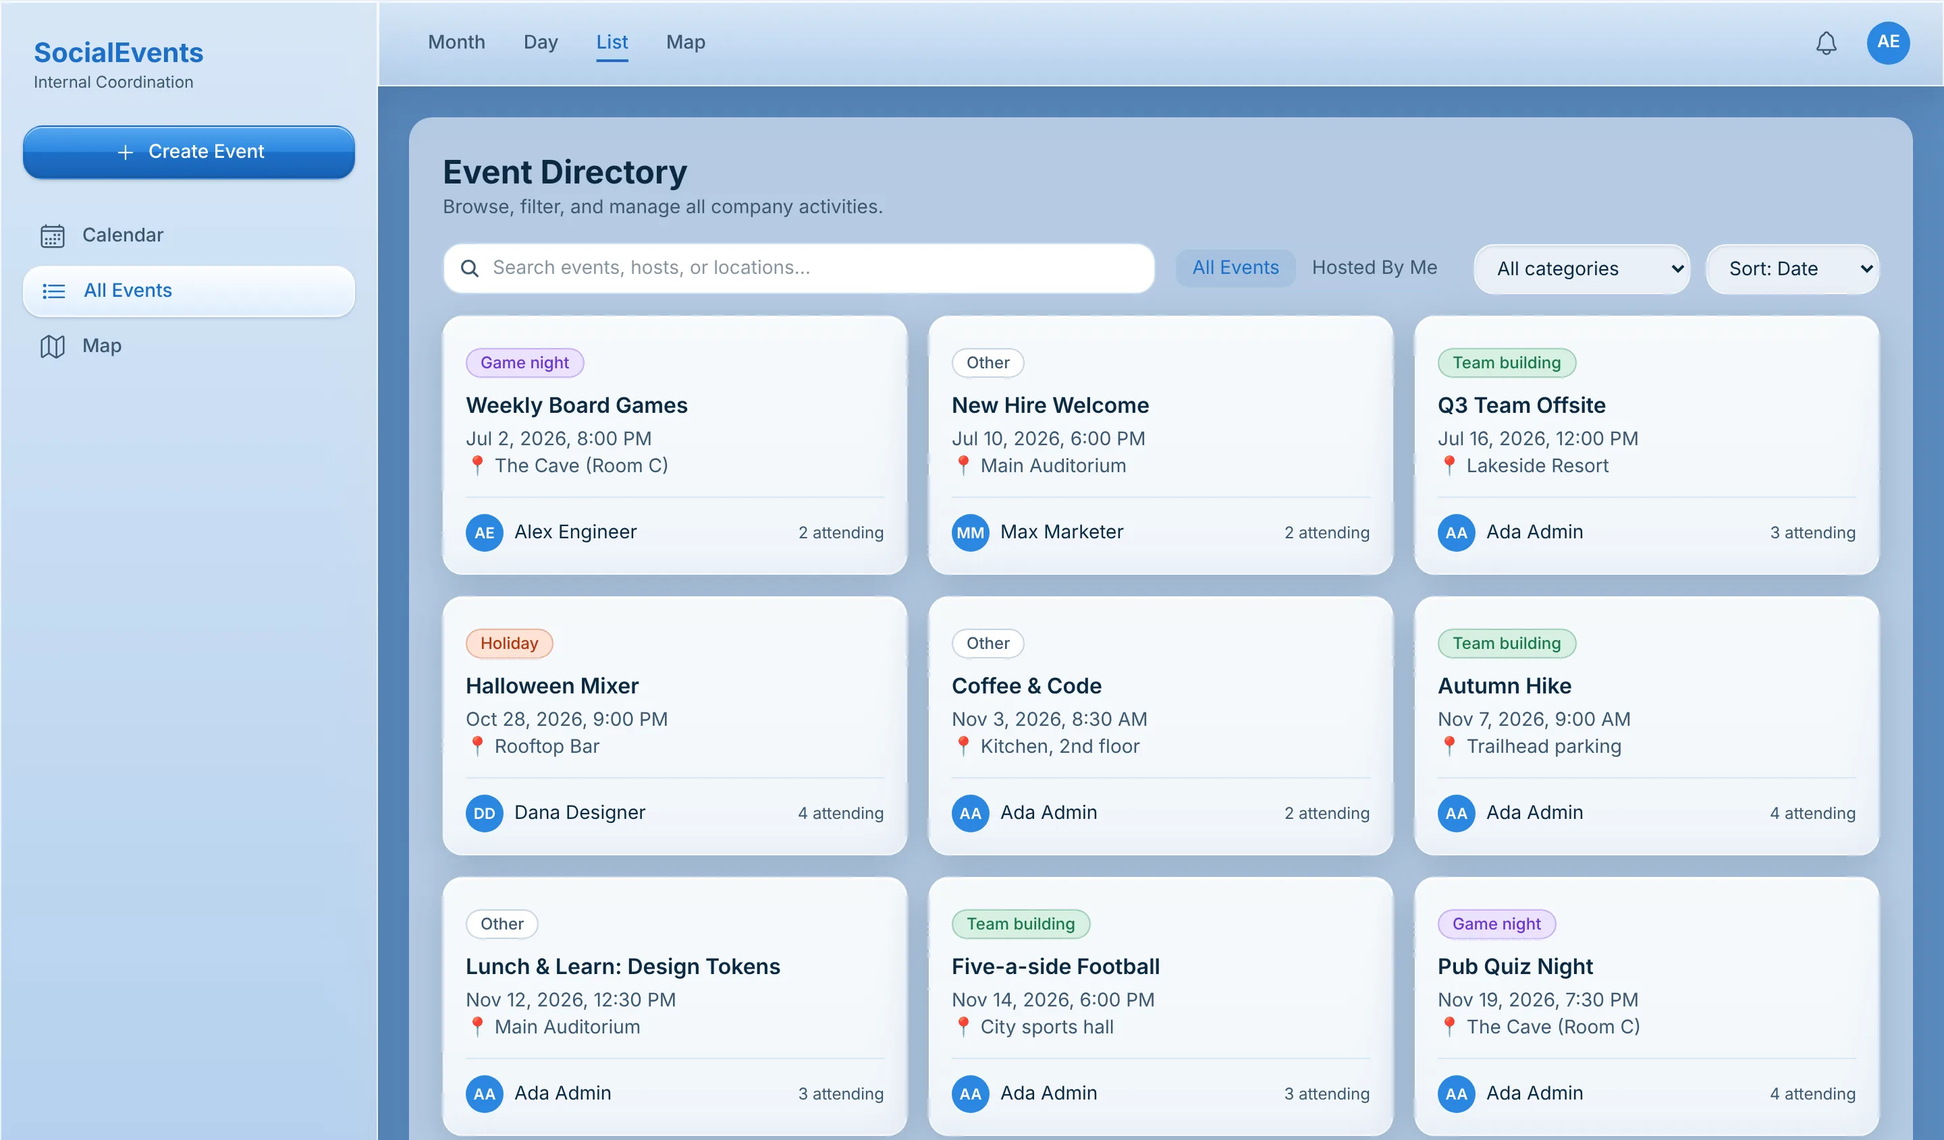
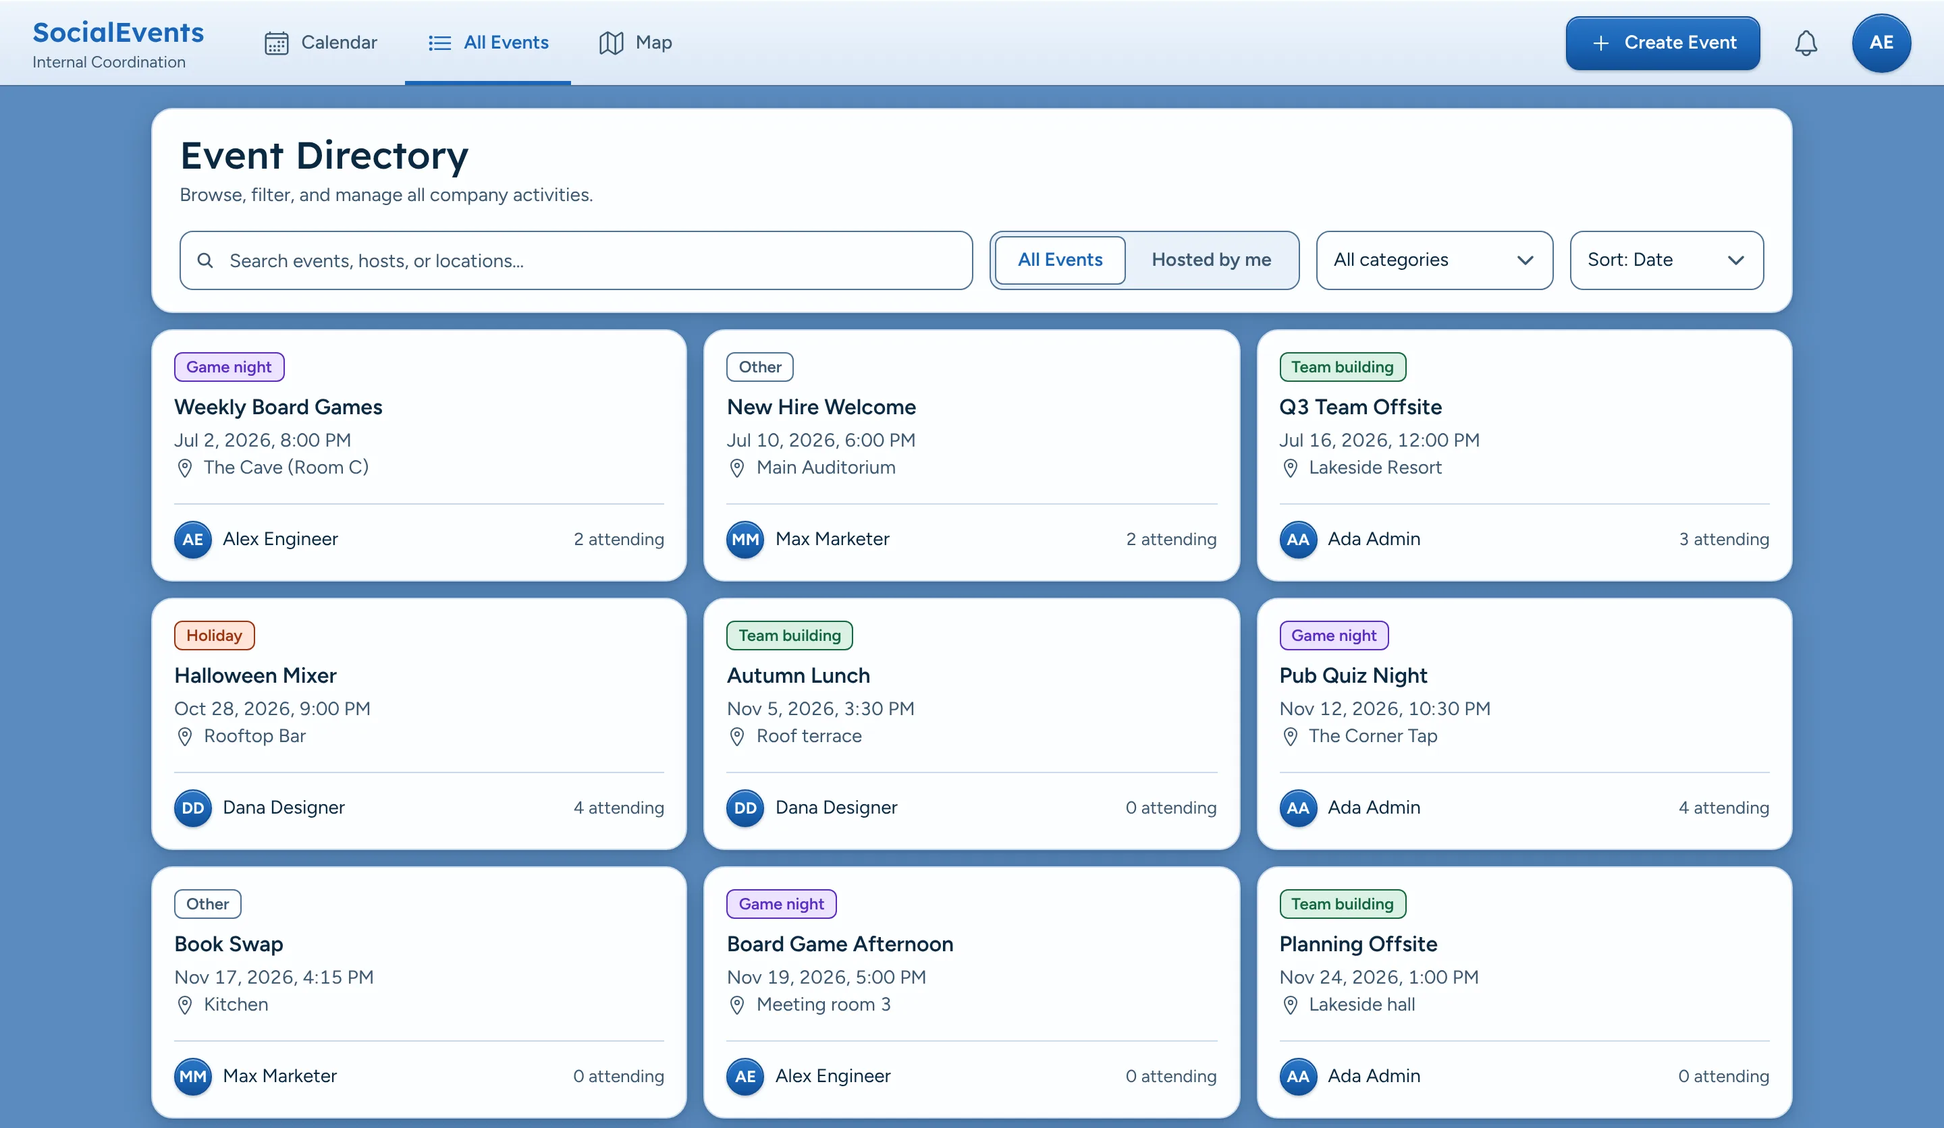
Docs: the README, getting started and the screenshots after the redesign
The README images showed the look of 2026-11-01; the redesign landed on
2026-11-13. All of them are retaken from the running app on the seed and
the Playwright hub's fixture month, clock frozen at 12 November 2026.

- README: status (19 briefs, the redesign, the two themes), a line on the
  theme and the phone layout, why this over a shared calendar, Base UI in
  the client, `npm run check` in place of the separate checks, the
  playwright/ and scripts/ rows, the design-system link.
- Images: calendar, events and event-detail retaken (event-detail now
  shows Halloween Mixer, whose place has coordinates, so the mock weather
  and the View map link show); phone-events.webp replaced by
  phone-calendar.webp; phone-event-sheet-dark.webp added for the dark
  theme and the phone sheet.
- docs/getting-started.md: checked again on 2026-11-16; the stale "lint
  has no config" line removed; check, check:fast, format and the
  conventions; the browser specs and their test server; moving the dev
  ports (Vite needs `-- --`, and its proxy stays on 3001); the weather
  timeout; the seed skips a database that already has users.
- docs/images/shots.md: one row per image, the fixture, the clock, the
  time zone and the server settings; the hub's shot run for the next time.
- docs/README.md: the Playwright hub linked.

Claude-Session: https://claude.ai/code/session_01RnCo6KceG18CeLXhzKq2En

diff --git a/README.md b/README.md
@@ -3,35 +3,40 @@
 A planner for a company's social events. Anyone signed in can create an event, invite people or whole departments, and see everything on a calendar, a list or a map, with the weather at each place.
 
 <p align="center">
-  <img src="docs/images/calendar.webp" width="100%" alt="The month calendar for November 2026 in a light blue, frosted Windows 7 style: today, the 1st, circled, and coloured chips for made-up events such as Coffee & Code, Autumn Hike, Pub Quiz Night and Thanksgiving Potluck">
+  <img src="docs/images/calendar.webp" width="100%" alt="The calendar on a desktop: a glass top bar with Calendar, All Events and Map tabs and a Create Event button, tonight's Pub Quiz Night as a ticket with Join and Can't make it buttons, and below it the month of November 2026 with coloured chips for made-up events such as Autumn Lunch, Book Swap, Planning Offsite and Holiday Party">
 </p>
 
-**Status:** Personal project, version 1 built and checked on 2026-06-25, with all 14 briefs done. It runs locally and is not deployed. It is a ground-up rebuild of a 2023 Next.js, Express and MongoDB app, whose spec is kept in [corpus/sources/SPEC.md](corpus/sources/SPEC.md).
+**Status:** Personal project. Version 1 was built and checked on 2026-06-25. The redesign of 2026-11-13, "The open invitation", gave it the current look, with a light and a dark theme. All 19 briefs are done. It runs locally and is not deployed. It is a ground-up rebuild of a 2023 Next.js, Express and MongoDB app, whose spec is kept in [corpus/sources/SPEC.md](corpus/sources/SPEC.md).
 
 ## What it does
 
-- People belong to departments. An event has a name, a time, a category, a place on the map and a description, and its host invites single people or whole departments.
-- Invitees get an email and a notification in the app, and answer Join or Can't make it.
+- People belong to departments. An event has a name, a time, a category, a place and a description, and its host invites single people or whole departments.
+- Invitees get an email and a notification in the app, and answer Join or Can't make it. Tonight's event, or the next one, sits on top of the calendar as a ticket with both answers.
 - Events show on a month or day calendar, in a directory you can search and filter by category, and on a map.
-- Each event shows the current weather at its place, and people rate both the event and its host from one to five stars.
+- Each event shows the weather at its place, and people rate both the event and its host from one to five stars.
 - Admins create departments and move people between them.
+- Light, Dark or System theme, picked in the profile dialog. On a phone the places move to a bottom bar and an event opens as a sheet.
+
+A shared office calendar can hold the dates. This adds department-wide invites, the Join answers, the weather and the ratings, and keeps it all in one SQLite file. It is an internal tool. Every screen past the sign-in page needs an account, and it sells no tickets and publishes nothing to the outside.
+
+## Screenshots
 
 <table>
 <tr>
-<td width="62%" valign="top"><img src="docs/images/events.webp" alt="The event directory: a search box, All Events and Hosted By Me tabs, category and sort filters, and cards with each event's category, time, place, host and number attending"></td>
-<td width="38%" valign="top"><img src="docs/images/phone-events.webp" alt="The event directory on a phone, with the side menu folded into a button"></td>
+<td width="62%" valign="top"><img src="docs/images/events.webp" alt="The event directory: a search box, All Events and Hosted by me, category and sort filters, and cards with each event's category, date, place, host and number attending"></td>
+<td width="38%" valign="top"><img src="docs/images/phone-calendar.webp" alt="The calendar on a phone: the Pub Quiz Night ticket with Join and Can't make it, the month as a grid of days with a coloured bar under each day that has an event, the category key, and a bottom bar with Calendar, All Events, Map and Create Event"></td>
+</tr>
+<tr>
+<td width="62%" valign="top"><img src="docs/images/event-detail.webp" alt="One event, Halloween Mixer, in a dialog: its Holiday category, empty event stars, the date, the weather reading Cloudy (mock), the host Dana Designer, the place Rooftop Bar with a View map link, the details, four attendees, and Join and Can't make it buttons"></td>
+<td width="38%" valign="top"><img src="docs/images/phone-event-sheet-dark.webp" alt="The dark theme on a phone: Pub Quiz Night as a bottom sheet with its category, the host Ada Admin rated 4.0 from two ratings, the place, the details, four attendees, and Join and Can't make it at the bottom"></td>
 </tr>
 </table>
 
-<p align="center">
-  <img src="docs/images/event-detail.webp" width="70%" alt="One event, Pub Quiz Night: its category, time, mock weather, host with a four-star rating, place with a View map link, details, four attendees, and Join and Can't make it buttons">
-</p>
-
-It runs with no API keys. Weather, maps and email fall back to built-in stand-ins, so the weather above reads "(mock)" and the map shows the places as a list. Keys in `.env` turn on the real services.
+It runs with no API keys. Weather, maps and email fall back to built-in stand-ins, so the weather above reads "(mock)" and the map shows the places as a list. Keys in `server/.env` and `client/.env` turn on the real services.
 
 ## How it works
 
-Three npm workspaces. `shared` holds the Zod schemas and types that are the API contract. `server` is a Fastify API on one SQLite file, with hand-written queries and its own JWT sign-in in a cookie. `client` is a React page built with Vite, Tailwind and TanStack Query and Router.
+Three npm workspaces. `shared` holds the Zod schemas and types that are the API contract. `server` is a Fastify API on one SQLite file, grouped by feature, with hand-written queries and its own JWT sign-in in a cookie. `client` is a React page built with Vite, Tailwind, Base UI and TanStack Query and Router.
 
 ```mermaid
 flowchart LR
@@ -43,7 +48,7 @@ flowchart LR
   shared --- server
 ```
 
-More in the wiki: [architecture](corpus/wiki/architecture.md), [data model](corpus/wiki/data-model.md), [API](corpus/wiki/api-contract.md) and [sign-in](corpus/wiki/auth.md).
+More in the wiki: [architecture](corpus/wiki/architecture.md), [data model](corpus/wiki/data-model.md), [API](corpus/wiki/api-contract.md), [sign-in](corpus/wiki/auth.md) and [design system](corpus/wiki/design-system.md).
 
 ## Run it locally
 
@@ -58,17 +63,18 @@ npm run dev:server       # Fastify on :3001
 npm run dev:client       # second terminal: Vite on http://localhost:5173, forwarding /api to :3001
 ```
 
-The seed prints the accounts it made. `npm run typecheck`, `npm test` and `npm run build` check and build all three workspaces. Settings, the optional keys and a single-port production run: [docs/getting-started.md](docs/getting-started.md).
+The seed prints the accounts it made. `npm run check` runs the typecheck, lint, format check, convention checks and tests. Settings, the optional keys, the browser specs and a single-port production run: [docs/getting-started.md](docs/getting-started.md).
 
 ## Project layout
 
 | Path | What lives there |
 |---|---|
 | `shared/` | The API contract: Zod schemas and types |
-| `server/` | Fastify API, SQLite migrations, data access, sign-in, the weather, maps and email adapters, the seed and the Vitest tests |
-| `client/` | The React page |
+| `server/` | Fastify API, one folder per feature: SQLite migrations and stores, sign-in, the weather and email adapters, the seed and the Vitest tests |
+| `client/` | The React page, its Base UI wrappers and its jsdom tests |
+| `playwright/` | The browser specs and how to start a seeded test server for them |
+| `scripts/` | The contrast check and the changed-files lint that `npm run check` and `check:fast` call |
 | `corpus/` | The project wiki: decisions, design system, status, briefs, the source spec and the Stitch design, and the UI test plans |
-| `playwright/` | How to start a test server for the UI test plans |
 
 ## Docs
 

diff --git a/docs/getting-started.md b/docs/getting-started.md
@@ -2,7 +2,7 @@
 
 How to run SocialEvents locally, check it, and run the built app on one port. The [main README](../README.md) has the short version.
 
-Checked on 2026-11-01 with Node 24 on Linux.
+Checked on 2026-11-16 with Node 22 on Linux.
 
 ## Prerequisites
 
@@ -20,7 +20,7 @@ npm run migrate                        # create the schema; the server also appl
 npm run seed                           # sample data
 ```
 
-The seed makes three departments, five people, one of them an admin, and four events in July and October 2026. It prints the sign-in addresses and their shared password, which only suit a local run. The data lives in `server/data/socialevents.sqlite` unless `DATABASE_PATH` points elsewhere.
+The seed makes three departments, five people, one of them an admin, and four events in July and October 2026. It prints the sign-in addresses and their shared password, which only suit a local run. It skips everything when the database already has users; delete the file to start over. The data lives in `server/data/socialevents.sqlite` unless `DATABASE_PATH` points elsewhere.
 
 ## Run the app
 
@@ -31,6 +31,10 @@ npm run dev:client     # second terminal: Vite on http://localhost:5173, forward
 
 In development the server makes a throwaway `JWT_SECRET` and warns about it, so sign-ins end when it restarts. The startup log says which integrations are real and which are stand-ins, for example `weather=mock email=mock`.
 
+Run the server scripts through `npm`. They run in `server/`, so the default `DATABASE_PATH` lands in `server/data/`; the server finds `server/.env` from its own folder either way.
+
+To move the ports, set `PORT` for the API and pass Vite its flag through both npm layers, as in `npm run dev:client -- -- --port 5180`. With a single `--`, npm keeps the flag and Vite stays on 5173. Vite forwards `/api` to port 3001 whatever `PORT` says (`client/vite.config.ts`), so the dev page only reaches an API on 3001.
+
 ## Settings
 
 `server/.env`:
@@ -40,10 +44,10 @@ In development the server makes a throwaway `JWT_SECRET` and warns about it, so 
 | `JWT_SECRET` | made up per start in development | signs the sign-in cookie; required, at least 16 characters, when `NODE_ENV=production` |
 | `DATABASE_PATH` | `./data/socialevents.sqlite` | the SQLite file |
 | `PORT` | `3001` | the API port |
-| `CLIENT_ORIGIN` | `http://localhost:5173` | CORS origin of the Vite page in development |
+| `CLIENT_ORIGIN` | `http://localhost:5173` in the example file | CORS origin of the Vite page in development |
 | `TRUST_PROXY` | `false` | set to `true` behind a reverse proxy, so the rate limits count each client and not the proxy |
-| `WEATHER_API_KEY` | empty, stand-in | a WeatherStack-compatible key; answers are cached for 24 hours |
-| `SMTP_HOST`, `SMTP_PORT`, `SMTP_USER`, `SMTP_PASS`, `SMTP_FROM` | empty, stand-in | mail for invites and welcomes; without them nothing is sent and the log says so |
+| `WEATHER_API_KEY` | empty, stand-in | a WeatherStack-compatible key; answers are cached for 24 hours, and a call that fails or takes over 5 seconds falls back to the stand-in |
+| `SMTP_HOST`, `SMTP_PORT`, `SMTP_USER`, `SMTP_PASS`, `SMTP_FROM` | empty, stand-in | mail for invites and welcomes; without a host nothing is sent and the log says so |
 
 `client/.env`:
 
@@ -55,12 +59,25 @@ In development the server makes a throwaway `JWT_SECRET` and warns about it, so 
 ## Check and build
 
 ```bash
-npm run typecheck      # tsc -b across the three workspaces
-npm test               # Vitest: data access, sign-in, guards, ownership, ratings, the weather cache
+npm run check          # typecheck, ESLint, Prettier check, conventions, tests: run it before handing work back
+npm run check:fast     # the typecheck, then ESLint on the changed files only
+npm test               # Vitest: the server's settings, stores, routes, sign-in, guards, errors, weather cache and mail escaping; the client's dialog, sheet, inline confirm and theme in jsdom
+npm run format         # Prettier writes every file it covers (Markdown stays out)
 npm run build          # shared, server and client
 ```
 
-`npm run lint` has no ESLint config yet, so it stops with an error.
+`check:conventions`, part of `check`, runs knip, the contrast check in `scripts/check-contrast.mjs` (every text, icon and focus-ring colour pair in both themes), dependency-cruiser and the two house-style checkers. The lint, format and convention configs at the root wrap the copy in `vendor/house-style/`; refresh it with `npm run house-style:sync` and never edit it by hand.
+
+## Browser specs
+
+The Playwright specs in [playwright/](../playwright/README.md) check the focus ring, reduced motion, no sideways scroll at 390 and 360 px, the first screen's layout, the Join states and the theme switch. They run against a seeded test server that serves the built client:
+
+```bash
+bash playwright/scripts/start-test-server.sh 3009             # builds, seeds data/pwtest.sqlite, serves on :3009
+SOCIALEVENTS_URL=http://localhost:3009 npm run e2e            # second terminal
+```
+
+The plain-text UI test plans are in [corpus/test-plans/](../corpus/test-plans/index.md).
 
 ## Run the built app on one port
 
@@ -70,7 +87,3 @@ NODE_ENV=production JWT_SECRET=<at least 16 characters> npm run start --workspac
 ```
 
 The server applies migrations, serves `client/dist` and the API from the same port, and answers unknown paths outside `/api` with the page, so links like `/calendar` work after a reload.
-
-## UI test plans
-
-The plain-text test plans are in [corpus/test-plans/](../corpus/test-plans/index.md), and [playwright/README.md](../playwright/README.md) says how to start a seeded server for them.

diff --git a/docs/images/shots.md b/docs/images/shots.md
@@ -1,16 +1,23 @@
 # README images
 
-How each image was made, so the next refresh is a re-run. Take an image again when the screen it shows changes.
+How each image was made, so the next refresh is a re-run. Take an image again when the screen it shows changes. All of them show the redesign of 2026-11-13.
 
 | File | Shows | How to reach that state | Viewport | Data | Taken |
 |---|---|---|---|---|---|
-| calendar.webp | The month calendar | `migrate`, `seed`, both dev servers; sign in on `/` as the seed's engineer account; the page opens on the calendar | 1440×900 @2x | the seed, plus seven made-up November events posted to `POST /api/events` as the seed admin | 2026-11-01, so today is the 1st |
-| events.webp | The event directory | same, open `/events`; cropped to the top 1690 px | 1440×900 @2x | same | 2026-11-01 |
-| event-detail.webp | One event's dialog | same, click Pub Quiz Night on `/events`; cropped to the dialog | 1440×900 @2x | same, with no keys, so the weather is the stand-in | 2026-11-01 |
-| phone-events.webp | The directory on a phone | same, iPhone 14 emulation; the top 1990 px, scaled to 585 px wide | 390×844 @3x | same | 2026-11-01 |
+| calendar.webp | The calendar: the ticket over the month | sign in as the seed's engineer account, Alex; the page opens on `/`; cropped to the top 1620 px | 1440×900 @2x | the seed and the fixture month (below) | 2026-11-16 |
+| events.webp | The event directory | same, open `/events`; cropped to the top 1672 px, the first three rows of cards | 1440×900 @2x | same | 2026-11-16 |
+| event-detail.webp | One event's dialog, Halloween Mixer | same, click Halloween Mixer on `/events`; cropped to the dialog with a 40 px edge | 1440×900 @2x | the seed's event, which has map coordinates, so the weather row shows the stand-in "(mock)" | 2026-11-16 |
+| phone-calendar.webp | The calendar on a phone: ticket, dot grid, key, bottom bar | same as calendar.webp; scaled to 780 px wide | iPhone 14 (390×664 @3x) | same | 2026-11-16 |
+| phone-event-sheet-dark.webp | The event sheet on a phone, dark theme | `socialevents-theme` set to `dark` in localStorage before the first paint, open `/`, tap the Pub Quiz Night ticket; scaled to 780 px wide | iPhone 14 (390×664 @3x) | the fixture's Pub Quiz Night, which has no coordinates, so its weather row is empty | 2026-11-16 |
 
-Captured with Playwright and Chrome, then `ffmpeg -i shot.png -vf <crop> -c:v libwebp -quality 82 shot.webp`. The server ran with a random `JWT_SECRET` and `DATABASE_PATH` on a scratch file.
+Data: `npm run seed` on a scratch database, then the fixture month of the Playwright hub, the seven November 2026 events in `playwright/global-setup.ts` (and Dana's 4-star rating of Ada as a host), posted through the API as the seed users. The browser clock was frozen at Thursday 12 November 2026, 10:00 UTC, as `playwright/fixtures.ts` does, so Pub Quiz Night is tonight's ticket. Time zone Europe/Bucharest, locale `en-US`, the light theme unless the row says otherwise.
 
-The names, the departments and the events are made up: the seed's five people and the November events added for the pictures.
+Server: `VITE_MAPS_BROWSER_KEY= npm run build`, then the one-port run, `npm run start --workspace server`, with `NODE_ENV=production`, a random `JWT_SECRET`, `DATABASE_PATH` on a scratch file, `TRUST_PROXY=true`, and empty `WEATHER_API_KEY` and `SMTP_HOST`. The scratch database's passwords were reset to a random value before the run, so the capture script signed in through `POST /api/auth/login` with no password written down.
 
-Left out: the map view, which shows only a list of coordinates without a Google Maps key.
+Captured with a Playwright script kept outside the repo, then `ffmpeg -i shot.png -vf <crop or scale> -c:v libwebp -quality 82 shot.webp`.
+
+For every screen at once, at 1280, 390 and 360 px in both themes (UTC clock): start the hub's test server and run `SHOTS_DIR=<dir> npm run e2e -- tests/shots` ([playwright/README.md](../../playwright/README.md)).
+
+The names, the departments and the events are made up: the seed's five people and the fixture's November events.
+
+Left out: the map view, which shows only a list of places without a Google Maps key. `phone-events.webp`, the directory on a phone, was replaced on 2026-11-16 by `phone-calendar.webp`, since the phone calendar is the screen the redesign changed most.

diff --git a/docs/README.md b/docs/README.md
@@ -4,7 +4,7 @@ Everything the main README links to.
 
 | Page | What it covers |
 |---|---|
-| [getting-started.md](getting-started.md) | Setup, settings and the optional keys, the checks, and the one-port production run |
+| [getting-started.md](getting-started.md) | Setup, settings and the optional keys, the checks, the browser specs, and the one-port production run |
 | [images/shots.md](images/shots.md) | How each README image was made, so the next refresh is a re-run |
 
-The project's knowledge lives in the wiki, [corpus/](../corpus/index.md): the overview, architecture, data model, API, sign-in, integrations, design system, decisions and status. The product spec and the Stitch design it was built from are in [corpus/sources/](../corpus/sources/SPEC.md).
+The project's knowledge lives in the wiki, [corpus/](../corpus/index.md): the overview, architecture, data model, API, sign-in, integrations, design system, decisions and status. The product spec and the Stitch design it was built from are in [corpus/sources/](../corpus/sources/SPEC.md). How to drive the UI in a browser is in [playwright/README.md](../playwright/README.md).
